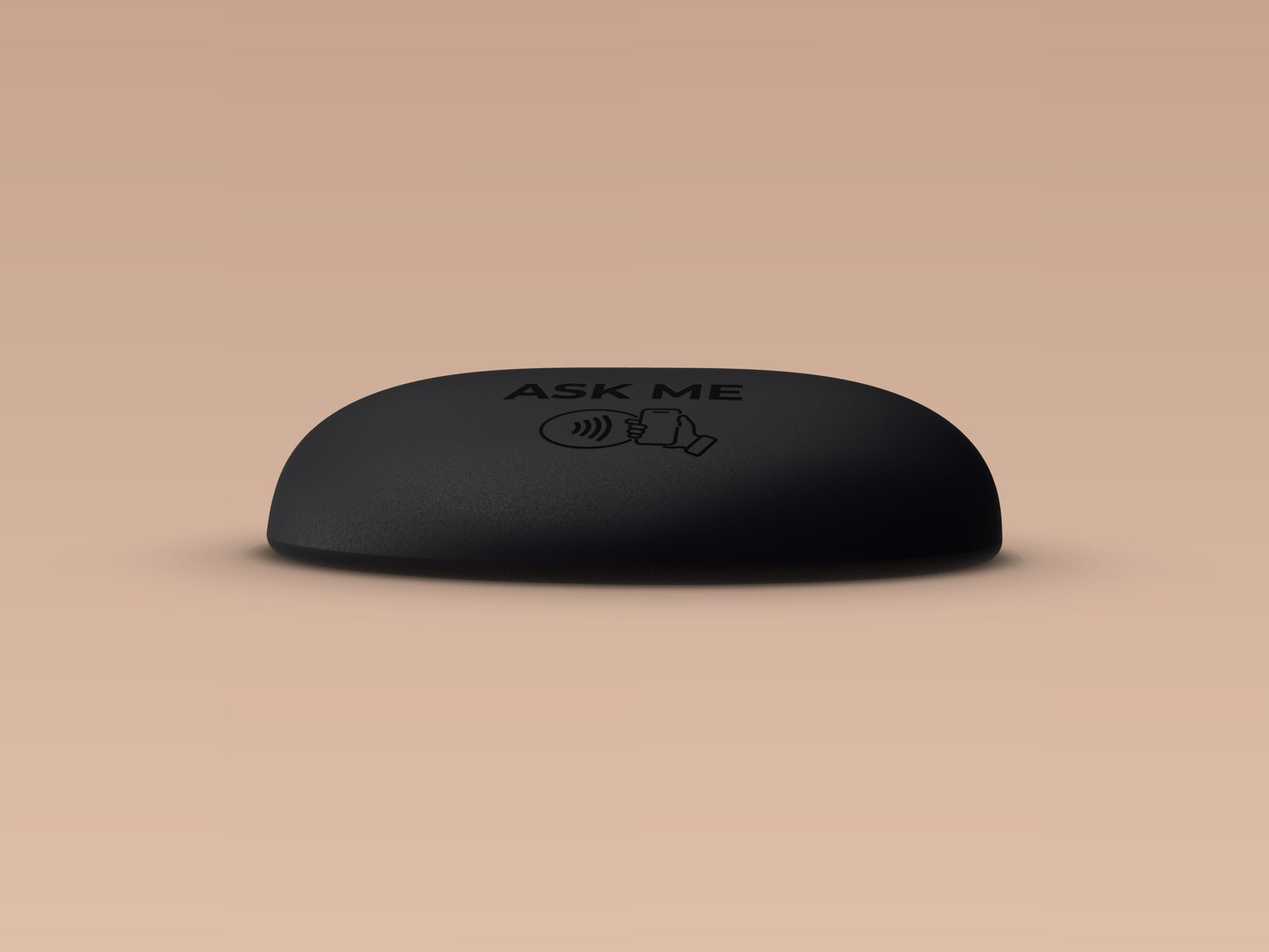
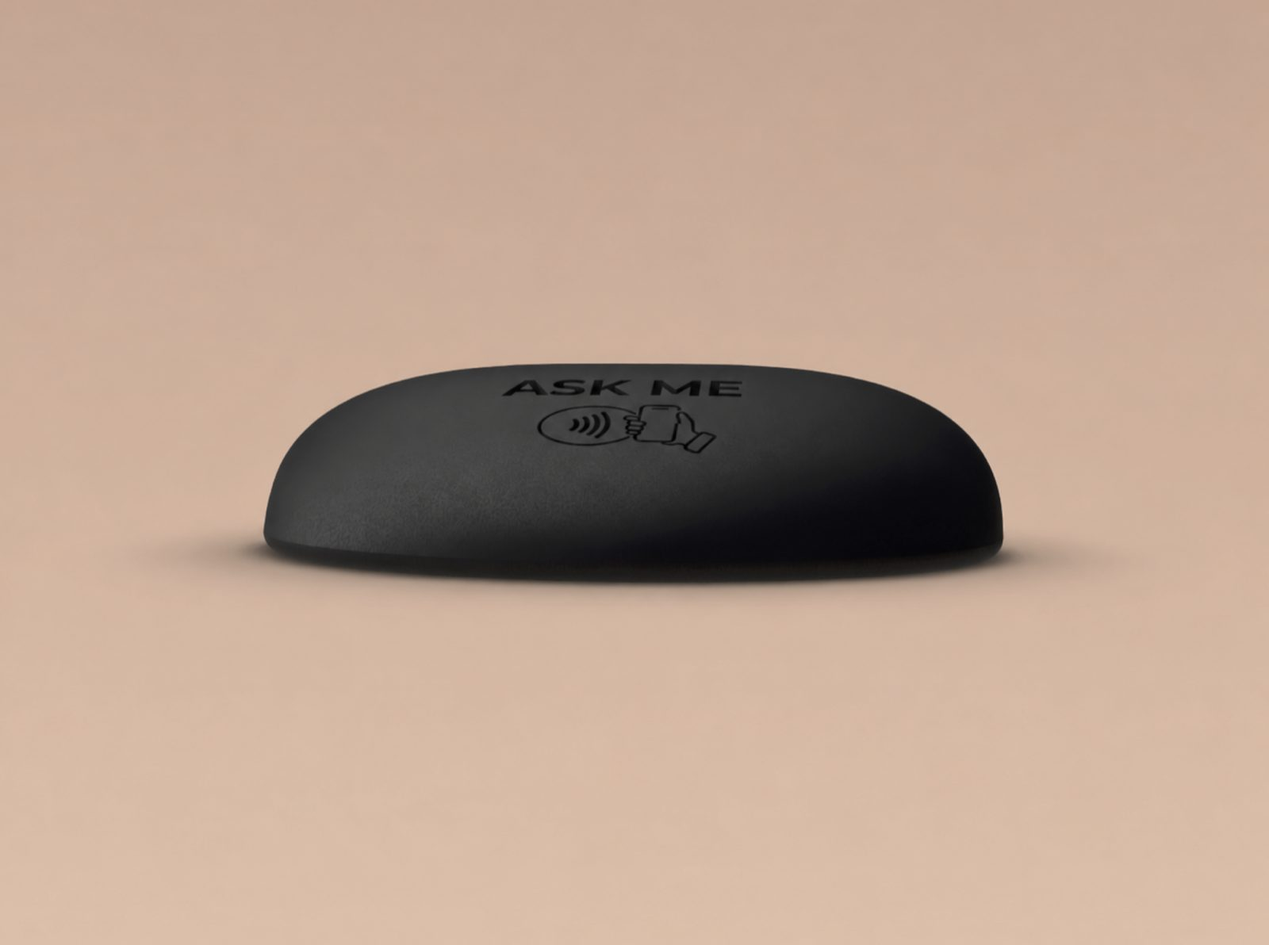
Add files via upload

diff --git a/hub.html b/hub.html
@@ -25,7 +25,7 @@
   <link rel="apple-touch-icon" href="/favicon.png?v=2"><!-- /ipso-seo -->
   <script type="application/ld+json" data-ipso="1">{"@context": "https://schema.org", "@graph": [{"@type": "Organization", "@id": "https://ipsoglobal.com/#org", "name": "Ipso", "alternateName": "IPSO", "url": "https://ipsoglobal.com/", "logo": "https://ipsoglobal.com/favicon.png?v=2", "slogan": "Somos el ADN de tu local.", "description": "Ipso es una empresa tecnológica de Barcelona que crea el ADN de bares, restaurantes, cafeterías, peluquerías y comercios de barrio: un punto NFC en el mostrador (IPSO HUB) que abre en el móvil del cliente el WiFi sin contraseña, la carta digital con fotos y precios, las reseñas de Google, una tarjeta de fidelización sin app y un asistente con inteligencia artificial que atiende en 30 idiomas.", "email": "contacto@ipsoglobal.com", "telephone": "+34603924226", "address": {"@type": "PostalAddress", "addressLocality": "Barcelona", "addressRegion": "Cataluña", "addressCountry": "ES"}, "areaServed": [{"@type": "City", "name": "Barcelona"}, {"@type": "Country", "name": "España"}], "contactPoint": {"@type": "ContactPoint", "contactType": "sales", "telephone": "+34603924226", "email": "contacto@ipsoglobal.com", "availableLanguage": ["es", "ca", "en"]}, "knowsAbout": ["NFC para restaurantes", "carta digital NFC", "reseñas de Google con NFC", "WiFi para clientes sin contraseña", "fidelización de clientes sin app", "asistente con IA para restaurantes", "digitalización de comercios de barrio"]}, {"@type": "WebSite", "@id": "https://ipsoglobal.com/#web", "url": "https://ipsoglobal.com/", "name": "Ipso", "inLanguage": ["es", "ca", "en"], "publisher": {"@id": "https://ipsoglobal.com/#org"}}, {"@type": "Service", "@id": "https://ipsoglobal.com/hub#product", "name": "IPSO HUB", "serviceType": "Punto NFC de relación con el cliente para bares, restaurantes y comercios", "provider": {"@id": "https://ipsoglobal.com/#org"}, "brand": {"@type": "Brand", "name": "Ipso"}, "url": "https://ipsoglobal.com/hub", "image": "https://ipsoglobal.com/og-image.png?v=2", "description": "IPSO HUB: el ADN de tu local. Una pieza NFC en la barra o el mostrador que, con un toque del móvil y sin apps, abre el WiFi sin contraseña, la carta digital con fotos y precios siempre al día, las reseñas de Google, la tarjeta de fidelización (sella tu visita, sin cartón) y un asistente con IA que recomienda platos, calcula presupuestos, avisa de alérgenos y atiende en 30 idiomas. Incluye informe mensual por WhatsApp para el dueño.", "category": "Tecnología para hostelería y comercio local", "audience": {"@type": "Audience", "audienceType": "Bares, restaurantes, cafeterías, peluquerías, centros de belleza y comercios de barrio"}, "offers": {"@type": "Offer", "priceCurrency": "EUR", "price": "19", "priceSpecification": {"@type": "UnitPriceSpecification", "price": "19", "priceCurrency": "EUR", "unitText": "mes"}, "areaServed": "Barcelona, España", "description": "Cuota mensual sin permanencia. Instalación y configuración en el local incluidas."}}, {"@type": "FAQPage", "@id": "https://ipsoglobal.com/hub#faq", "mainEntity": [{"@type": "Question", "name": "¿Cuál es la diferencia entre HUB y HUB Pro?", "acceptedAnswer": {"@type": "Answer", "text": "El HUB abre WiFi, carta, ficha de Google, redes y horarios con un pago único. El HUB Pro añade asistente con IA, tarjeta de sellos, panel en tiempo real, cambios ilimitados e informe mensual por 19 €/mes."}}, {"@type": "Question", "name": "¿Cómo cancelo?", "acceptedAnswer": {"@type": "Answer", "text": "Desde tu panel, en un clic, sin llamar ni escribir. Dejas de pagar el mes siguiente y el punto sigue siendo tuyo."}}, {"@type": "Question", "name": "¿Puedo pasar de HUB a Pro más adelante?", "acceptedAnswer": {"@type": "Answer", "text": "Sí, desde tu panel, sin cambiar el punto."}}, {"@type": "Question", "name": "¿En cualquier móvil?", "acceptedAnswer": {"@type": "Answer", "text": "Sí, iPhone y Android. El cliente solo acerca el móvil."}}, {"@type": "Question", "name": "¿Cómo funciona la tarjeta de sellos?", "acceptedAnswer": {"@type": "Answer", "text": "Es tu tarjeta de sellos, sin cartón. El cliente toca el HUB, deja su número una vez y cada visita se apunta sola. Tú decides la regla, por ejemplo 9 visitas y la 10.ª gratis. Cuando la alcanza, recibe un solo WhatsApp para canjear el premio en el local. Sin app, sin tocar tu TPV. El cliente acepta el uso de su número al dejarlo. Solo se usa para el premio. En tu informe mensual ves cuántos clientes repiten."}}, {"@type": "Question", "name": "¿Qué pasa con el teléfono de mis clientes?", "acceptedAnswer": {"@type": "Answer", "text": "Solo sirve para contar visitas y avisar del premio. No se comparte y el cliente puede borrarlo cuando quiera."}}, {"@type": "Question", "name": "¿Qué sale en la estampa de Comparte tu visita?", "acceptedAnswer": {"@type": "Answer", "text": "El nombre de tu local, la ciudad, el número de visita, la fecha y la hora. Nunca el teléfono ni ningún dato personal de tu cliente. Y solo se comparte si él quiere."}}]}]}</script>
 <meta charset="utf-8">
-<script src="./support.js?v=202610141520"></script>
+<script src="./support.js?v=202610141534"></script>
 </head>
 <body>
 <x-dc>
@@ -260,7 +260,7 @@ html body header [data-navlinks] { gap: 28px !important; }
       <div data-reveal="1" style="display: grid; grid-template-columns: repeat(auto-fit, minmax(min(340px, 100%), 1fr)); gap: clamp(32px, 2.667vw, 51.2px); align-items: stretch;">
         <div style="display: flex; flex-direction: column; gap: 12px;">
           <div data-hero-photo="1" style="position: relative; border-radius: 20px; overflow: hidden; aspect-ratio: 4 / 3; width: 100%; max-width: 624px; background: transparent;">
-            <img loading="lazy" decoding="async" data-hubfoto="1" src="assets/pieza-2-lateral.jpg?v=2" ref="{{ fotoRef }}" alt="IPSO HUB" style="position: absolute; inset: 0; width: 100%; height: 100%; object-fit: {{ fotoFit }}; object-position: 50% 50%; display: block; background: {{ fotoBg }}; padding: {{ fotoPad }}; box-sizing: border-box;">
+            <img loading="lazy" decoding="async" data-hubfoto="1" src="assets/pieza-2-lateral.jpg?v=3" ref="{{ fotoRef }}" alt="IPSO HUB" style="position: absolute; inset: 0; width: 100%; height: 100%; object-fit: {{ fotoFit }}; object-position: 50% 50%; display: block; background: {{ fotoBg }}; padding: {{ fotoPad }}; box-sizing: border-box;">
           </div>
           <div style="margin-top: 14.4px; display: flex; flex-wrap: nowrap; gap: 12px;">
             <sc-for list="{{ galeria }}" as="g" hint-placeholder-count="3">
@@ -1124,7 +1124,7 @@ class Component extends DCLogic {
   renderVals() {
     const open = this.state.menu;
     const P = PAL[this.state.theme];
-    const FOTOS = ['assets/pieza-2-lateral.jpg?v=2', 'assets/pieza-1-principal.png?v=2', 'assets/pieza-4-detalle.jpg?v=3', 'assets/hub-cafe.jpg?v=fcff9151'];
+    const FOTOS = ['assets/pieza-2-lateral.jpg?v=3', 'assets/pieza-1-principal.png?v=2', 'assets/pieza-4-detalle.jpg?v=3', 'assets/pieza-5-hub.png?v=9c8b610e'];
     const i = this.state.foto;
     const isDisc = FOTOS[i] === 'assets/pieza-1-principal.png?v=2';
     const BEN = [

diff --git a/index.html b/index.html
@@ -25,7 +25,7 @@
   <link rel="apple-touch-icon" href="/favicon.png?v=2"><!-- /ipso-seo -->
   <script type="application/ld+json" data-ipso="1">{"@context": "https://schema.org", "@graph": [{"@type": "Organization", "@id": "https://ipsoglobal.com/#org", "name": "Ipso", "alternateName": "IPSO", "url": "https://ipsoglobal.com/", "logo": "https://ipsoglobal.com/favicon.png?v=2", "slogan": "Somos el ADN de tu local.", "description": "Ipso es una empresa tecnológica de Barcelona que crea el ADN de bares, restaurantes, cafeterías, peluquerías y comercios de barrio: un punto NFC en el mostrador (IPSO HUB) que abre en el móvil del cliente el WiFi sin contraseña, la carta digital con fotos y precios, las reseñas de Google, una tarjeta de fidelización sin app y un asistente con inteligencia artificial que atiende en 30 idiomas.", "email": "contacto@ipsoglobal.com", "telephone": "+34603924226", "address": {"@type": "PostalAddress", "addressLocality": "Barcelona", "addressRegion": "Cataluña", "addressCountry": "ES"}, "areaServed": [{"@type": "City", "name": "Barcelona"}, {"@type": "Country", "name": "España"}], "contactPoint": {"@type": "ContactPoint", "contactType": "sales", "telephone": "+34603924226", "email": "contacto@ipsoglobal.com", "availableLanguage": ["es", "ca", "en"]}, "knowsAbout": ["NFC para restaurantes", "carta digital NFC", "reseñas de Google con NFC", "WiFi para clientes sin contraseña", "fidelización de clientes sin app", "asistente con IA para restaurantes", "digitalización de comercios de barrio"]}, {"@type": "WebSite", "@id": "https://ipsoglobal.com/#web", "url": "https://ipsoglobal.com/", "name": "Ipso", "inLanguage": ["es", "ca", "en"], "publisher": {"@id": "https://ipsoglobal.com/#org"}}, {"@type": "ProfessionalService", "@id": "https://ipsoglobal.com/#local", "name": "Ipso — Puntos NFC para comercios", "url": "https://ipsoglobal.com/", "telephone": "+34603924226", "email": "contacto@ipsoglobal.com", "priceRange": "€", "image": "https://ipsoglobal.com/og-image.png?v=2", "parentOrganization": {"@id": "https://ipsoglobal.com/#org"}, "address": {"@type": "PostalAddress", "addressLocality": "Barcelona", "addressRegion": "Cataluña", "addressCountry": "ES"}, "areaServed": ["Barcelona", "Área metropolitana de Barcelona", "Cataluña", "España"], "serviceType": ["Punto NFC para restaurantes y bares", "Carta digital NFC", "Stand de reseñas de Google", "WiFi NFC para clientes", "Fidelización de clientes sin app", "Asistente con IA para hostelería"]}, {"@type": "Service", "@id": "https://ipsoglobal.com/hub#product", "name": "IPSO HUB", "serviceType": "Punto NFC de relación con el cliente para bares, restaurantes y comercios", "provider": {"@id": "https://ipsoglobal.com/#org"}, "brand": {"@type": "Brand", "name": "Ipso"}, "url": "https://ipsoglobal.com/hub", "image": "https://ipsoglobal.com/og-image.png?v=2", "description": "IPSO HUB: el ADN de tu local. Una pieza NFC en la barra o el mostrador que, con un toque del móvil y sin apps, abre el WiFi sin contraseña, la carta digital con fotos y precios siempre al día, las reseñas de Google, la tarjeta de fidelización (sella tu visita, sin cartón) y un asistente con IA que recomienda platos, calcula presupuestos, avisa de alérgenos y atiende en 30 idiomas. Incluye informe mensual por WhatsApp para el dueño.", "category": "Tecnología para hostelería y comercio local", "audience": {"@type": "Audience", "audienceType": "Bares, restaurantes, cafeterías, peluquerías, centros de belleza y comercios de barrio"}, "offers": {"@type": "Offer", "priceCurrency": "EUR", "price": "19", "priceSpecification": {"@type": "UnitPriceSpecification", "price": "19", "priceCurrency": "EUR", "unitText": "mes"}, "areaServed": "Barcelona, España", "description": "Cuota mensual sin permanencia. Instalación y configuración en el local incluidas."}}, {"@type": "FAQPage", "@id": "https://ipsoglobal.com/#faq", "mainEntity": [{"@type": "Question", "name": "¿Sustituye a mi TPV o a mi camarero?", "acceptedAnswer": {"@type": "Answer", "text": "No. Tu TPV sigue cobrando y tu equipo sigue atendiendo. IPSO cuida lo que pasa en la mesa mientras tanto."}}, {"@type": "Question", "name": "¿Mis clientes podrán pagar desde el hub?", "acceptedAnswer": {"@type": "Answer", "text": "Sí. Tus clientes pueden pedir y pagar desde la mesa con tarjeta, Apple Pay, Google Pay o Bizum, y el dinero va directo a tu cuenta: Ipso no se queda ni un céntimo de lo que vendes. Como cada local cobra a su manera, lo preparamos a medida: cuéntanos qué caja y qué datáfono usas y te decimos cómo hacerlo."}}, {"@type": "Question", "name": "¿Hay permanencia? ¿Cómo cancelo?", "acceptedAnswer": {"@type": "Answer", "text": "No. Cancelas desde tu panel en un clic; dejas de pagar el mes siguiente y el punto sigue siendo tuyo."}}, {"@type": "Question", "name": "¿Necesito una app? ¿Funciona en cualquier móvil?", "acceptedAnswer": {"@type": "Answer", "text": "No. Llega programado y listo para poner en el mostrador. Funciona en iPhone y Android, por NFC: tus clientes solo acercan el móvil que ya llevan encima."}}, {"@type": "Question", "name": "¿Esto está permitido por Google?", "acceptedAnswer": {"@type": "Answer", "text": "Sí. El punto abre tu ficha oficial. No pedimos, no filtramos, no premiamos reseñas."}}]}]}</script>
 <meta charset="utf-8">
-<script src="./support.js?v=202610141520"></script>
+<script src="./support.js?v=202610141534"></script>
 </head>
 <body>
 <x-dc>

diff --git a/nosotros.html b/nosotros.html
@@ -25,7 +25,7 @@
   <link rel="apple-touch-icon" href="/favicon.png?v=2"><!-- /ipso-seo -->
   <script type="application/ld+json" data-ipso="1">{"@context": "https://schema.org", "@graph": [{"@type": "Organization", "@id": "https://ipsoglobal.com/#org", "name": "Ipso", "alternateName": "IPSO", "url": "https://ipsoglobal.com/", "logo": "https://ipsoglobal.com/favicon.png?v=2", "slogan": "Somos el ADN de tu local.", "description": "Ipso es una empresa tecnológica de Barcelona que crea el ADN de bares, restaurantes, cafeterías, peluquerías y comercios de barrio: un punto NFC en el mostrador (IPSO HUB) que abre en el móvil del cliente el WiFi sin contraseña, la carta digital con fotos y precios, las reseñas de Google, una tarjeta de fidelización sin app y un asistente con inteligencia artificial que atiende en 30 idiomas.", "email": "contacto@ipsoglobal.com", "telephone": "+34603924226", "address": {"@type": "PostalAddress", "addressLocality": "Barcelona", "addressRegion": "Cataluña", "addressCountry": "ES"}, "areaServed": [{"@type": "City", "name": "Barcelona"}, {"@type": "Country", "name": "España"}], "contactPoint": {"@type": "ContactPoint", "contactType": "sales", "telephone": "+34603924226", "email": "contacto@ipsoglobal.com", "availableLanguage": ["es", "ca", "en"]}, "knowsAbout": ["NFC para restaurantes", "carta digital NFC", "reseñas de Google con NFC", "WiFi para clientes sin contraseña", "fidelización de clientes sin app", "asistente con IA para restaurantes", "digitalización de comercios de barrio"]}, {"@type": "WebSite", "@id": "https://ipsoglobal.com/#web", "url": "https://ipsoglobal.com/", "name": "Ipso", "inLanguage": ["es", "ca", "en"], "publisher": {"@id": "https://ipsoglobal.com/#org"}}, {"@type": "ProfessionalService", "@id": "https://ipsoglobal.com/#local", "name": "Ipso — Puntos NFC para comercios", "url": "https://ipsoglobal.com/", "telephone": "+34603924226", "email": "contacto@ipsoglobal.com", "priceRange": "€", "image": "https://ipsoglobal.com/og-image.png?v=2", "parentOrganization": {"@id": "https://ipsoglobal.com/#org"}, "address": {"@type": "PostalAddress", "addressLocality": "Barcelona", "addressRegion": "Cataluña", "addressCountry": "ES"}, "areaServed": ["Barcelona", "Área metropolitana de Barcelona", "Cataluña", "España"], "serviceType": ["Punto NFC para restaurantes y bares", "Carta digital NFC", "Stand de reseñas de Google", "WiFi NFC para clientes", "Fidelización de clientes sin app", "Asistente con IA para hostelería"]}]}</script>
 <meta charset="utf-8">
-<script src="./support.js?v=202610141520"></script>
+<script src="./support.js?v=202610141534"></script>
 </head>
 <body>
 <x-dc>
@@ -361,7 +361,7 @@ class Component extends DCLogic {
 
   componentDidMount() {
     try { const L0 = localStorage.getItem('ipso-lang'); if (L0 && ['es','en','ca'].indexOf(L0) >= 0 && L0 !== this.state.lang) { const p0 = this.state.lang; this.setState({ lang: L0 }, () => { if (this.applyLang) this.applyLang(p0); }); } } catch (e) {}
-    import('./ipso-chrome.js?v=202610141520').then((m) => { this._chrome = m; m.applyTheme(this.state.theme); this.forceUpdate(); });
+    import('./ipso-chrome.js?v=202610141534').then((m) => { this._chrome = m; m.applyTheme(this.state.theme); this.forceUpdate(); });
   }
 
   componentDidUpdate() {

diff --git a/404.html b/404.html
@@ -25,7 +25,7 @@
   <link rel="apple-touch-icon" href="/favicon.png?v=2"><!-- /ipso-seo -->
   <script type="application/ld+json" data-ipso="1">{"@context": "https://schema.org", "@graph": [{"@type": "Organization", "@id": "https://ipsoglobal.com/#org", "name": "Ipso", "alternateName": "IPSO", "url": "https://ipsoglobal.com/", "logo": "https://ipsoglobal.com/favicon.png?v=2", "slogan": "Somos el ADN de tu local.", "description": "Ipso es una empresa tecnológica de Barcelona que crea el ADN de bares, restaurantes, cafeterías, peluquerías y comercios de barrio: un punto NFC en el mostrador (IPSO HUB) que abre en el móvil del cliente el WiFi sin contraseña, la carta digital con fotos y precios, las reseñas de Google, una tarjeta de fidelización sin app y un asistente con inteligencia artificial que atiende en 30 idiomas.", "email": "contacto@ipsoglobal.com", "telephone": "+34603924226", "address": {"@type": "PostalAddress", "addressLocality": "Barcelona", "addressRegion": "Cataluña", "addressCountry": "ES"}, "areaServed": [{"@type": "City", "name": "Barcelona"}, {"@type": "Country", "name": "España"}], "contactPoint": {"@type": "ContactPoint", "contactType": "sales", "telephone": "+34603924226", "email": "contacto@ipsoglobal.com", "availableLanguage": ["es", "ca", "en"]}, "knowsAbout": ["NFC para restaurantes", "carta digital NFC", "reseñas de Google con NFC", "WiFi para clientes sin contraseña", "fidelización de clientes sin app", "asistente con IA para restaurantes", "digitalización de comercios de barrio"]}, {"@type": "WebSite", "@id": "https://ipsoglobal.com/#web", "url": "https://ipsoglobal.com/", "name": "Ipso", "inLanguage": ["es", "ca", "en"], "publisher": {"@id": "https://ipsoglobal.com/#org"}}]}</script>
 <meta charset="utf-8">
-<script src="./support.js?v=202610141520"></script>
+<script src="./support.js?v=202610141534"></script>
 </head>
 <body>
 <x-dc>
@@ -304,7 +304,7 @@ class Component extends DCLogic {
 
   componentDidMount() {
     try { const L0 = localStorage.getItem('ipso-lang'); if (L0 && ['es','en','ca'].indexOf(L0) >= 0 && L0 !== this.state.lang) { const p0 = this.state.lang; this.setState({ lang: L0 }, () => { if (this.applyLang) this.applyLang(p0); }); } } catch (e) {}
-    import('./ipso-chrome.js?v=202610141520').then((m) => { this._chrome = m; m.applyTheme(this.state.theme); this.forceUpdate(); });
+    import('./ipso-chrome.js?v=202610141534').then((m) => { this._chrome = m; m.applyTheme(this.state.theme); this.forceUpdate(); });
   }
 
   componentDidUpdate() {

diff --git a/legal.html b/legal.html
@@ -25,7 +25,7 @@
   <link rel="apple-touch-icon" href="/favicon.png?v=2"><!-- /ipso-seo -->
   <script type="application/ld+json" data-ipso="1">{"@context": "https://schema.org", "@graph": [{"@type": "Organization", "@id": "https://ipsoglobal.com/#org", "name": "Ipso", "alternateName": "IPSO", "url": "https://ipsoglobal.com/", "logo": "https://ipsoglobal.com/favicon.png?v=2", "slogan": "Somos el ADN de tu local.", "description": "Ipso es una empresa tecnológica de Barcelona que crea el ADN de bares, restaurantes, cafeterías, peluquerías y comercios de barrio: un punto NFC en el mostrador (IPSO HUB) que abre en el móvil del cliente el WiFi sin contraseña, la carta digital con fotos y precios, las reseñas de Google, una tarjeta de fidelización sin app y un asistente con inteligencia artificial que atiende en 30 idiomas.", "email": "contacto@ipsoglobal.com", "telephone": "+34603924226", "address": {"@type": "PostalAddress", "addressLocality": "Barcelona", "addressRegion": "Cataluña", "addressCountry": "ES"}, "areaServed": [{"@type": "City", "name": "Barcelona"}, {"@type": "Country", "name": "España"}], "contactPoint": {"@type": "ContactPoint", "contactType": "sales", "telephone": "+34603924226", "email": "contacto@ipsoglobal.com", "availableLanguage": ["es", "ca", "en"]}, "knowsAbout": ["NFC para restaurantes", "carta digital NFC", "reseñas de Google con NFC", "WiFi para clientes sin contraseña", "fidelización de clientes sin app", "asistente con IA para restaurantes", "digitalización de comercios de barrio"]}, {"@type": "WebSite", "@id": "https://ipsoglobal.com/#web", "url": "https://ipsoglobal.com/", "name": "Ipso", "inLanguage": ["es", "ca", "en"], "publisher": {"@id": "https://ipsoglobal.com/#org"}}]}</script>
 <meta charset="utf-8">
-<script src="./support.js?v=202610141520"></script>
+<script src="./support.js?v=202610141534"></script>
 </head>
 <body>
 <x-dc>
@@ -766,7 +766,7 @@ class Component extends DCLogic {
 
   componentDidMount() {
     try { const L0 = localStorage.getItem('ipso-lang'); if (L0 && ['es','en','ca'].indexOf(L0) >= 0 && L0 !== this.state.lang) { const p0 = this.state.lang; this.setState({ lang: L0 }, () => { if (this.applyLang) this.applyLang(p0); }); } } catch (e) {}
-    import('./ipso-chrome.js?v=202610141520').then((m) => { this._chrome = m; m.applyTheme(this.state.theme); this.forceUpdate(); });
+    import('./ipso-chrome.js?v=202610141534').then((m) => { this._chrome = m; m.applyTheme(this.state.theme); this.forceUpdate(); });
   }
 
   componentDidUpdate() {

diff --git a/resenas.html b/resenas.html
@@ -25,7 +25,7 @@
   <link rel="apple-touch-icon" href="/favicon.png?v=2"><!-- /ipso-seo -->
   <script type="application/ld+json" data-ipso="1">{"@context": "https://schema.org", "@graph": [{"@type": "Organization", "@id": "https://ipsoglobal.com/#org", "name": "Ipso", "alternateName": "IPSO", "url": "https://ipsoglobal.com/", "logo": "https://ipsoglobal.com/favicon.png?v=2", "slogan": "Somos el ADN de tu local.", "description": "Ipso es una empresa tecnológica de Barcelona que crea el ADN de bares, restaurantes, cafeterías, peluquerías y comercios de barrio: un punto NFC en el mostrador (IPSO HUB) que abre en el móvil del cliente el WiFi sin contraseña, la carta digital con fotos y precios, las reseñas de Google, una tarjeta de fidelización sin app y un asistente con inteligencia artificial que atiende en 30 idiomas.", "email": "contacto@ipsoglobal.com", "telephone": "+34603924226", "address": {"@type": "PostalAddress", "addressLocality": "Barcelona", "addressRegion": "Cataluña", "addressCountry": "ES"}, "areaServed": [{"@type": "City", "name": "Barcelona"}, {"@type": "Country", "name": "España"}], "contactPoint": {"@type": "ContactPoint", "contactType": "sales", "telephone": "+34603924226", "email": "contacto@ipsoglobal.com", "availableLanguage": ["es", "ca", "en"]}, "knowsAbout": ["NFC para restaurantes", "carta digital NFC", "reseñas de Google con NFC", "WiFi para clientes sin contraseña", "fidelización de clientes sin app", "asistente con IA para restaurantes", "digitalización de comercios de barrio"]}, {"@type": "WebSite", "@id": "https://ipsoglobal.com/#web", "url": "https://ipsoglobal.com/", "name": "Ipso", "inLanguage": ["es", "ca", "en"], "publisher": {"@id": "https://ipsoglobal.com/#org"}}]}</script>
 <meta charset="utf-8">
-<script src="./support.js?v=202610141520"></script>
+<script src="./support.js?v=202610141534"></script>
 </head>
 <body>
 <x-dc>
@@ -382,7 +382,7 @@ class Component extends DCLogic {
 
   componentDidMount() {
     try { const L0 = localStorage.getItem('ipso-lang'); if (L0 && ['es','en','ca'].indexOf(L0) >= 0 && L0 !== this.state.lang) { const p0 = this.state.lang; this.setState({ lang: L0 }, () => { if (this.applyLang) this.applyLang(p0); }); } } catch (e) {}
-    import('./ipso-chrome.js?v=202610141520').then((m) => { this._chrome = m; m.applyTheme(this.state.theme); this.forceUpdate(); });
+    import('./ipso-chrome.js?v=202610141534').then((m) => { this._chrome = m; m.applyTheme(this.state.theme); this.forceUpdate(); });
   }
 
   componentDidUpdate() {

diff --git a/gracias.html b/gracias.html
@@ -25,7 +25,7 @@
   <link rel="apple-touch-icon" href="/favicon.png?v=2"><!-- /ipso-seo -->
   <script type="application/ld+json" data-ipso="1">{"@context": "https://schema.org", "@graph": [{"@type": "Organization", "@id": "https://ipsoglobal.com/#org", "name": "Ipso", "alternateName": "IPSO", "url": "https://ipsoglobal.com/", "logo": "https://ipsoglobal.com/favicon.png?v=2", "slogan": "Somos el ADN de tu local.", "description": "Ipso es una empresa tecnológica de Barcelona que crea el ADN de bares, restaurantes, cafeterías, peluquerías y comercios de barrio: un punto NFC en el mostrador (IPSO HUB) que abre en el móvil del cliente el WiFi sin contraseña, la carta digital con fotos y precios, las reseñas de Google, una tarjeta de fidelización sin app y un asistente con inteligencia artificial que atiende en 30 idiomas.", "email": "contacto@ipsoglobal.com", "telephone": "+34603924226", "address": {"@type": "PostalAddress", "addressLocality": "Barcelona", "addressRegion": "Cataluña", "addressCountry": "ES"}, "areaServed": [{"@type": "City", "name": "Barcelona"}, {"@type": "Country", "name": "España"}], "contactPoint": {"@type": "ContactPoint", "contactType": "sales", "telephone": "+34603924226", "email": "contacto@ipsoglobal.com", "availableLanguage": ["es", "ca", "en"]}, "knowsAbout": ["NFC para restaurantes", "carta digital NFC", "reseñas de Google con NFC", "WiFi para clientes sin contraseña", "fidelización de clientes sin app", "asistente con IA para restaurantes", "digitalización de comercios de barrio"]}, {"@type": "WebSite", "@id": "https://ipsoglobal.com/#web", "url": "https://ipsoglobal.com/", "name": "Ipso", "inLanguage": ["es", "ca", "en"], "publisher": {"@id": "https://ipsoglobal.com/#org"}}]}</script>
 <meta charset="utf-8">
-<script src="./support.js?v=202610141520"></script>
+<script src="./support.js?v=202610141534"></script>
 </head>
 <body>
 <x-dc>
@@ -165,7 +165,7 @@ class Component extends DCLogic {
     const lang = initialLang();
     if (lang !== this.state.lang) this.setState({ lang });
     document.documentElement.lang = lang;
-    import('./ipso-chrome.js?v=202610141520').then((m) => { this._chrome = m; m.applyTheme(this.state.theme); }).catch(() => {});
+    import('./ipso-chrome.js?v=202610141534').then((m) => { this._chrome = m; m.applyTheme(this.state.theme); }).catch(() => {});
   }
   componentDidUpdate() { if (this._chrome) this._chrome.applyTheme(this.state.theme); }
   renderVals() {

diff --git a/alta.html b/alta.html
@@ -25,7 +25,7 @@
   <link rel="apple-touch-icon" href="/favicon.png?v=2"><!-- /ipso-seo -->
   <script type="application/ld+json" data-ipso="1">{"@context": "https://schema.org", "@graph": [{"@type": "Organization", "@id": "https://ipsoglobal.com/#org", "name": "Ipso", "alternateName": "IPSO", "url": "https://ipsoglobal.com/", "logo": "https://ipsoglobal.com/favicon.png?v=2", "slogan": "Somos el ADN de tu local.", "description": "Ipso es una empresa tecnológica de Barcelona que crea el ADN de bares, restaurantes, cafeterías, peluquerías y comercios de barrio: un punto NFC en el mostrador (IPSO HUB) que abre en el móvil del cliente el WiFi sin contraseña, la carta digital con fotos y precios, las reseñas de Google, una tarjeta de fidelización sin app y un asistente con inteligencia artificial que atiende en 30 idiomas.", "email": "contacto@ipsoglobal.com", "telephone": "+34603924226", "address": {"@type": "PostalAddress", "addressLocality": "Barcelona", "addressRegion": "Cataluña", "addressCountry": "ES"}, "areaServed": [{"@type": "City", "name": "Barcelona"}, {"@type": "Country", "name": "España"}], "contactPoint": {"@type": "ContactPoint", "contactType": "sales", "telephone": "+34603924226", "email": "contacto@ipsoglobal.com", "availableLanguage": ["es", "ca", "en"]}, "knowsAbout": ["NFC para restaurantes", "carta digital NFC", "reseñas de Google con NFC", "WiFi para clientes sin contraseña", "fidelización de clientes sin app", "asistente con IA para restaurantes", "digitalización de comercios de barrio"]}, {"@type": "WebSite", "@id": "https://ipsoglobal.com/#web", "url": "https://ipsoglobal.com/", "name": "Ipso", "inLanguage": ["es", "ca", "en"], "publisher": {"@id": "https://ipsoglobal.com/#org"}}]}</script>
 <meta charset="utf-8">
-<script src="./support.js?v=202610141520"></script>
+<script src="./support.js?v=202610141534"></script>
 </head>
 <body>
 <x-dc>

diff --git a/alta-gracias.html b/alta-gracias.html
@@ -25,7 +25,7 @@
   <link rel="apple-touch-icon" href="/favicon.png?v=2"><!-- /ipso-seo -->
   <script type="application/ld+json" data-ipso="1">{"@context": "https://schema.org", "@graph": [{"@type": "Organization", "@id": "https://ipsoglobal.com/#org", "name": "Ipso", "alternateName": "IPSO", "url": "https://ipsoglobal.com/", "logo": "https://ipsoglobal.com/favicon.png?v=2", "slogan": "Somos el ADN de tu local.", "description": "Ipso es una empresa tecnológica de Barcelona que crea el ADN de bares, restaurantes, cafeterías, peluquerías y comercios de barrio: un punto NFC en el mostrador (IPSO HUB) que abre en el móvil del cliente el WiFi sin contraseña, la carta digital con fotos y precios, las reseñas de Google, una tarjeta de fidelización sin app y un asistente con inteligencia artificial que atiende en 30 idiomas.", "email": "contacto@ipsoglobal.com", "telephone": "+34603924226", "address": {"@type": "PostalAddress", "addressLocality": "Barcelona", "addressRegion": "Cataluña", "addressCountry": "ES"}, "areaServed": [{"@type": "City", "name": "Barcelona"}, {"@type": "Country", "name": "España"}], "contactPoint": {"@type": "ContactPoint", "contactType": "sales", "telephone": "+34603924226", "email": "contacto@ipsoglobal.com", "availableLanguage": ["es", "ca", "en"]}, "knowsAbout": ["NFC para restaurantes", "carta digital NFC", "reseñas de Google con NFC", "WiFi para clientes sin contraseña", "fidelización de clientes sin app", "asistente con IA para restaurantes", "digitalización de comercios de barrio"]}, {"@type": "WebSite", "@id": "https://ipsoglobal.com/#web", "url": "https://ipsoglobal.com/", "name": "Ipso", "inLanguage": ["es", "ca", "en"], "publisher": {"@id": "https://ipsoglobal.com/#org"}}]}</script>
 <meta charset="utf-8">
-<script src="support.js?v=202610141520"></script>
+<script src="support.js?v=202610141534"></script>
 </head>
 <body>
 <x-dc>
